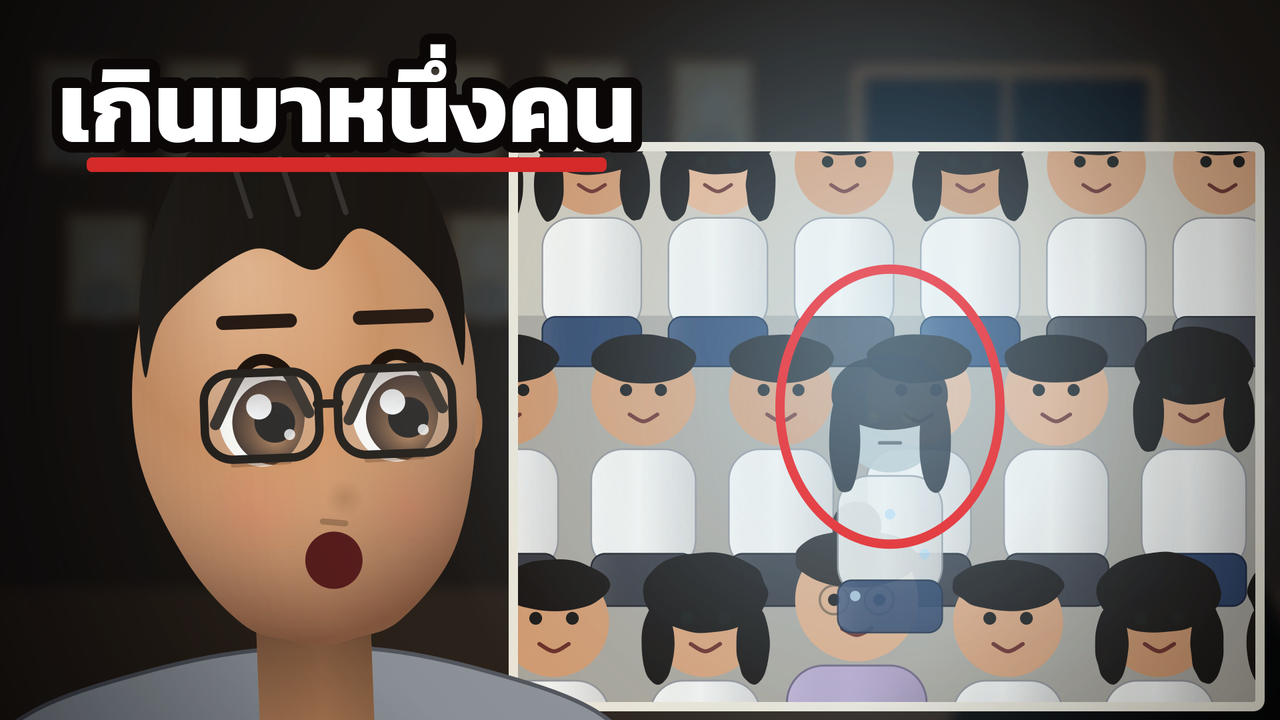
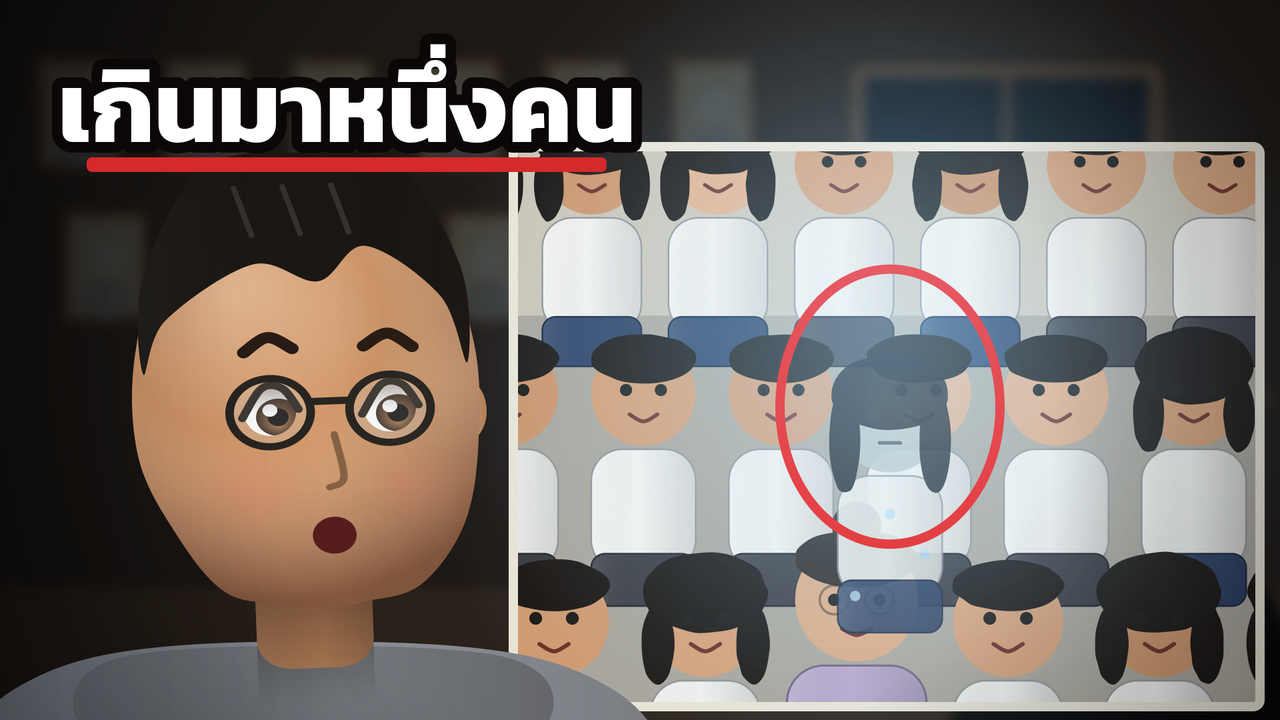
Document sigma style; thumbnail in new style
Claude-Session: https://claude.ai/code/session_01Fw9u8tfD49LCNkT8f4wQEz

diff --git a/episodes/class_photo/thumbnail.py b/episodes/class_photo/thumbnail.py
@@ -45,8 +45,8 @@ ctx.set_source_rgba(*hexc("#e02a2a"))
 ctx.set_line_width(14)
 ctx.stroke()
 # หน้าพีทซ้าย
-with g.at(470, 640, 4.2):
-    g.blob(0, 175, 150, 95, C.PETE.suit, 3, 7)
+with g.at(470, 600, 4.0):
+    C.torso(g, C.PETE)
     C.flat_head(g, C.PETE, "shock", 0.0, 0.45, (1, 0), 99)
 C.light_pass(g, 1330, 470, (0.7, 0.88, 1.0), 0.7, 1500, dust=False)
 C.vignette(g, 0.6)

diff --git a/horror/WORKFLOW.md b/horror/WORKFLOW.md
@@ -35,3 +35,11 @@ EPISODE=<ตอน> python3 episodes/<ตอน>/thumbnail.py
 - ของที่ถือ (ไม้เท้า มีด โทรศัพท์ กรอบรูป) ต้องวางที่ `hand_xy(...)` ไม่กะเอง · มือที่โผล่ในช็อตใกล้ต้องมีแขนเสื้อต่อจากขอบจอ
 - ข้อความในภาพต้องอยู่เหนือ y≈880 (ซับอยู่ล่าง) · ไฮไลต์ใช้กรอบเส้น ห้ามทับตัวหนังสือ
 - ผู้ป่วยบนเตียง: หัวขนาดเท่าคนจริง หมอนรอง ผ้าห่มคลุมถึงคาง (ไม่ให้เห็นคอยาว)
+
+## สไตล์ภาพ "sigma" (แบบคลิปต้นแบบ TikTok — ใช้ตั้งแต่ตอน class_photo)
+- เปิดในตอนใหม่: ใน `chars.py` ของตอน ตั้ง `_fp.STYLE = "sigma"` (ตอน funeral_photo ยังเป็น "classic" ตาโต)
+- หน้า: ตาเล็ก (~1/8 ความกว้างหน้า) ไฮไลต์จุดเดียว คิ้วสั้นโค้ง จมูกเส้นเดียว หัวกลมกว้าง คอสั้น
+- ภาพใกล้: `torso()` ไหล่โค้งพอง เส้นแบ่งแขนเสื้อ คอเสื้อ (ฮู้ดมีเชือก, จีวรมีผ้าพาด)
+- ซับ: ขาวเงานุ่ม (`SUB_SHADOW = 1.0`, `SUB_STROKE = None`, ขนาด 50)
+- ตัวละครหลักปรากฏครั้งแรก: การ์ดชื่อมุมซ้ายบนใต้ชื่อช่อง `tag(shot, "ชื่อ", "บทบาท")` (วาดใน POST ไม่โดนกล้องซูม)
+- สิ่งที่คลิปต้นแบบใช้บ่อยและควรเพิ่ม: เอกสาร/หนังสือพิมพ์/ซองเงินแบบอินเสิร์ตเต็มจอ, จอมือถือ UI จริง, การ์ดเวลา "01:58"
